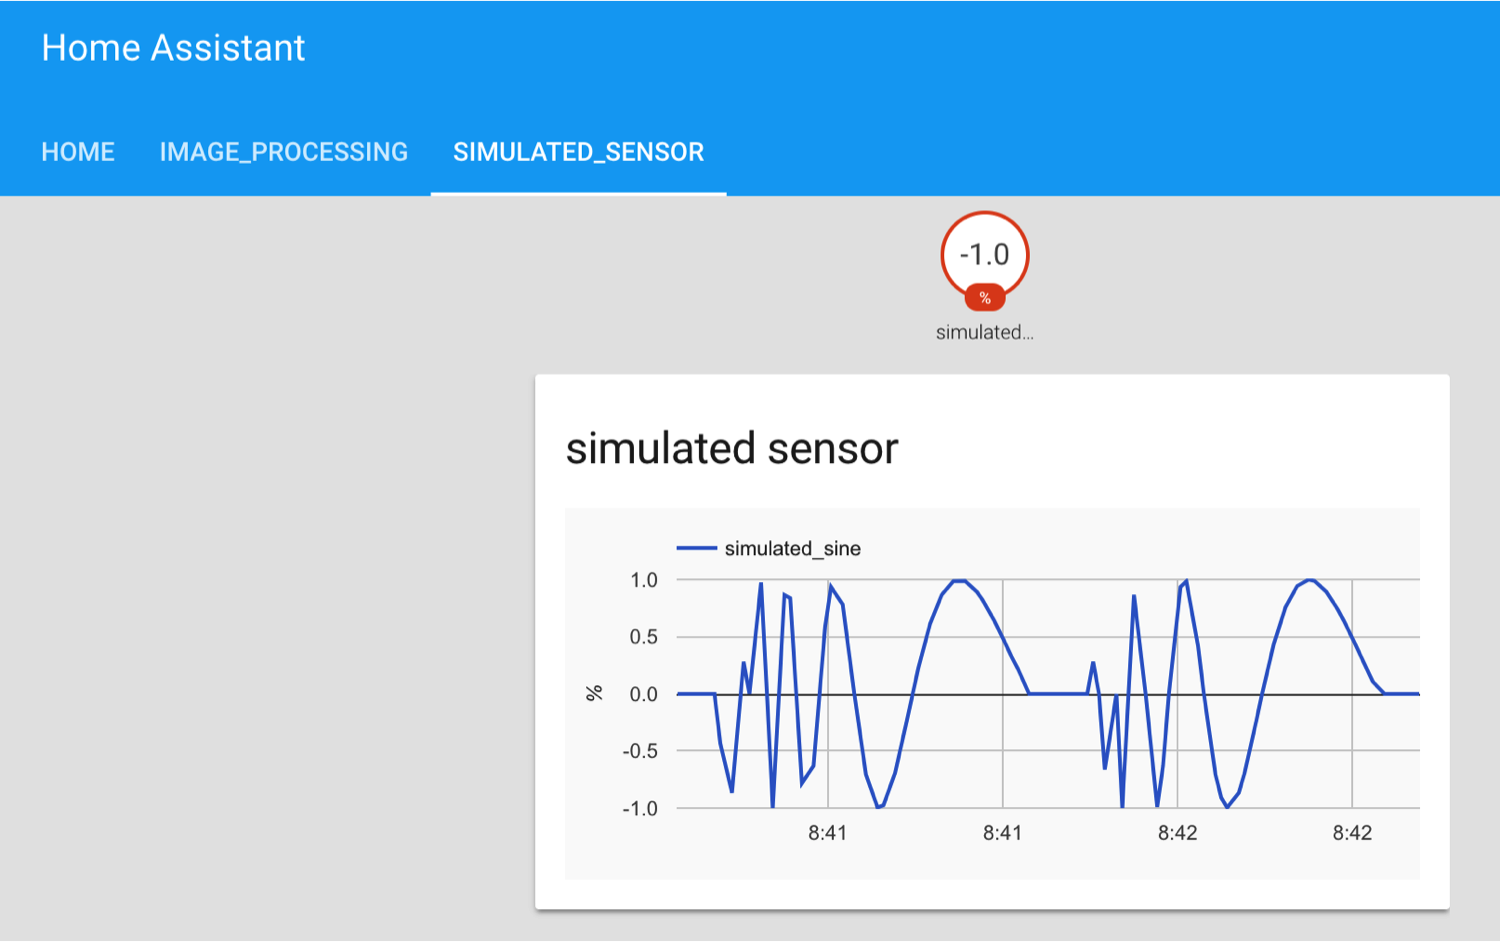
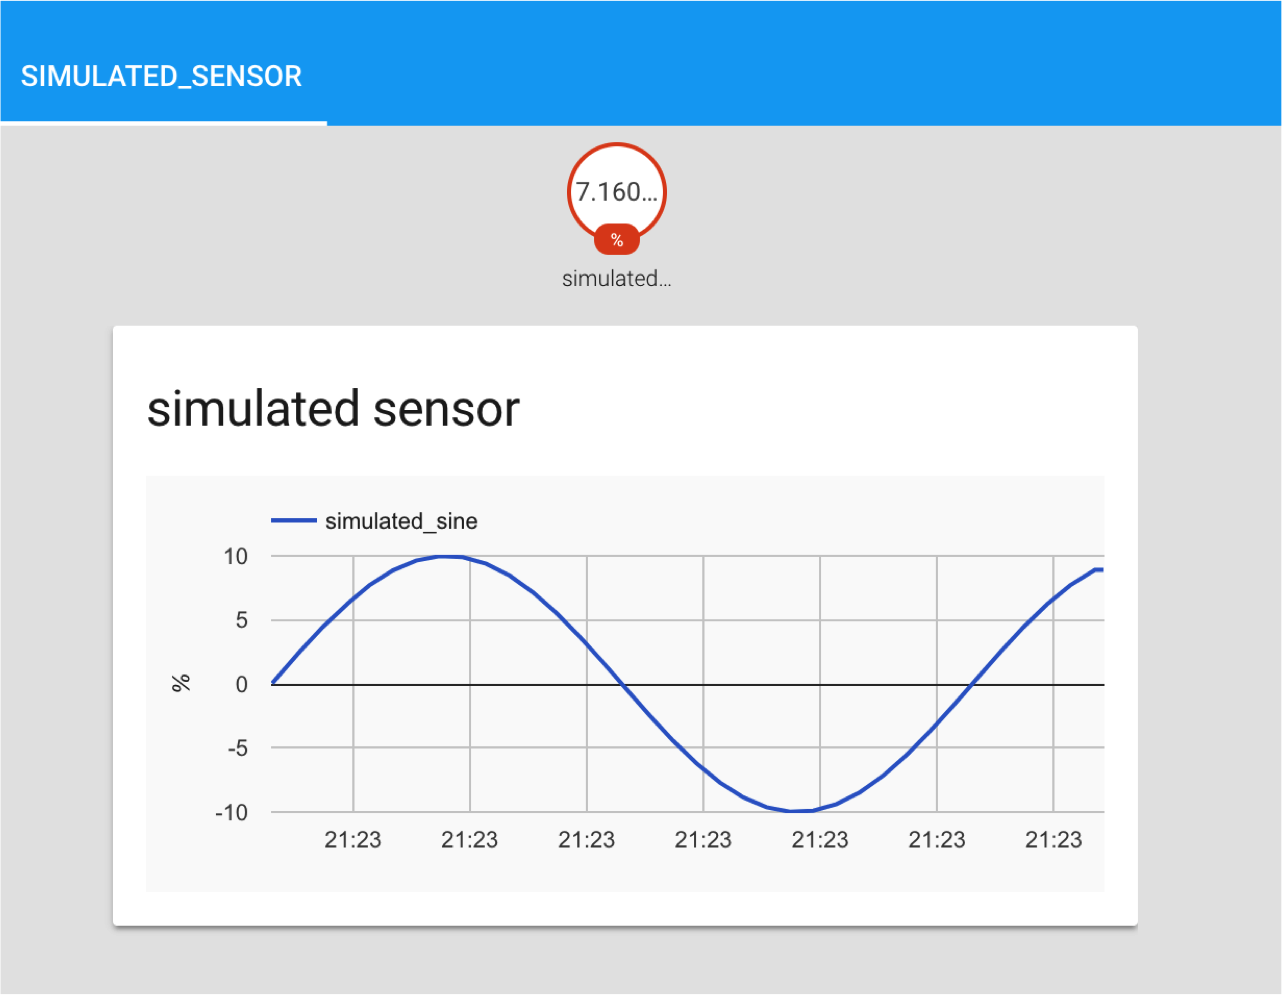
Working

diff --git a/custom_components/sensor/simulated.py b/custom_components/sensor/simulated.py
@@ -11,7 +11,7 @@ import datetime as dt
 from homeassistant.helpers.entity import Entity
 
 _LOGGER = logging.getLogger(__name__)
-SCAN_INTERVAL = dt.timedelta(seconds=1)
+SCAN_INTERVAL = dt.timedelta(seconds=0.1)
 ICON = 'mdi:chart-line'
 
 
@@ -19,25 +19,41 @@ def setup_platform(hass, config, add_devices, discovery_info=None):
     """Set up the simulated sensor."""
     name = 'simulated_sine'
     unit_of_measurement = '%'
-    period_s = 60
     seed = 100
-    add_devices([SimulatedSensor(name, unit_of_measurement, period_s, seed)], True)
+    amplitude = 1
+    period = dt.timedelta(seconds=30)
+    sigma = 0.1
+    add_devices([SimulatedSensor(name, amplitude, period, sigma, unit_of_measurement, seed)], True)
 
 
 class SimulatedSensor(Entity):
     """Class for simulated sensor."""
 
-    def __init__(self, name, unit_of_measurement, period_s, seed):
-        """Initialize the sensor."""
+    def __init__(self, name, amplitude, period, sigma, unit_of_measurement, seed):
         self._name = name
         self._unit_of_measurement = unit_of_measurement
         self._seed = seed
-        self._state = None
         self._start_time = dt.datetime.now()
-        self._mean = None # The mean level
-        self._amplitude = 1.0 # The wave amplitude
-        self._period_s = dt.timedelta(seconds=period_s)  # The time period in seconds
-        self._noise = None # % (percent) of the amplitude
+        self._amplitude = amplitude
+        self._period = period.total_seconds()*1e6   # timedelta
+        self._sigma = sigma
+        self._state = None
+
+    def time_delta(self):
+        dt1 = self._start_time
+        dt2 = dt.datetime.now()
+        delta_milliseconds = (dt2 - dt1).total_seconds()*1e6
+        return delta_milliseconds
+
+    def sine_calc(self):
+        a = self._amplitude
+        delta_t = self.time_delta()
+        w = self._period
+        s = self._sigma
+        return (a * np.sin(2*np.pi*(delta_t)/w)) + np.random.normal(0, s)
+
+    def update(self):
+        self._state = self.sine_calc()
 
     @property
     def name(self):
@@ -53,20 +69,6 @@ class SimulatedSensor(Entity):
     def icon(self):
         """Icon to use in the frontend, if any."""
         return ICON
-
-    def update(self):
-        """Update the sensor."""
-        elapsed_time_s = (dt.datetime.now() - self._start_time).seconds
-
-        elapsed_periods = int(self.safe_division(elapsed_time_s, self._period_s.seconds))
-        phase = self.safe_division(
-                self._period_s.seconds, elapsed_time_s - (elapsed_periods*self._period_s.seconds))
-        self._state = self._amplitude*np.sin(phase*2*np.pi) #np.random.random()
-
-    def safe_division(self, x, y):
-        if y == 0:
-            return 0
-        return x / y
 
     @property
     def unit_of_measurement(self):
